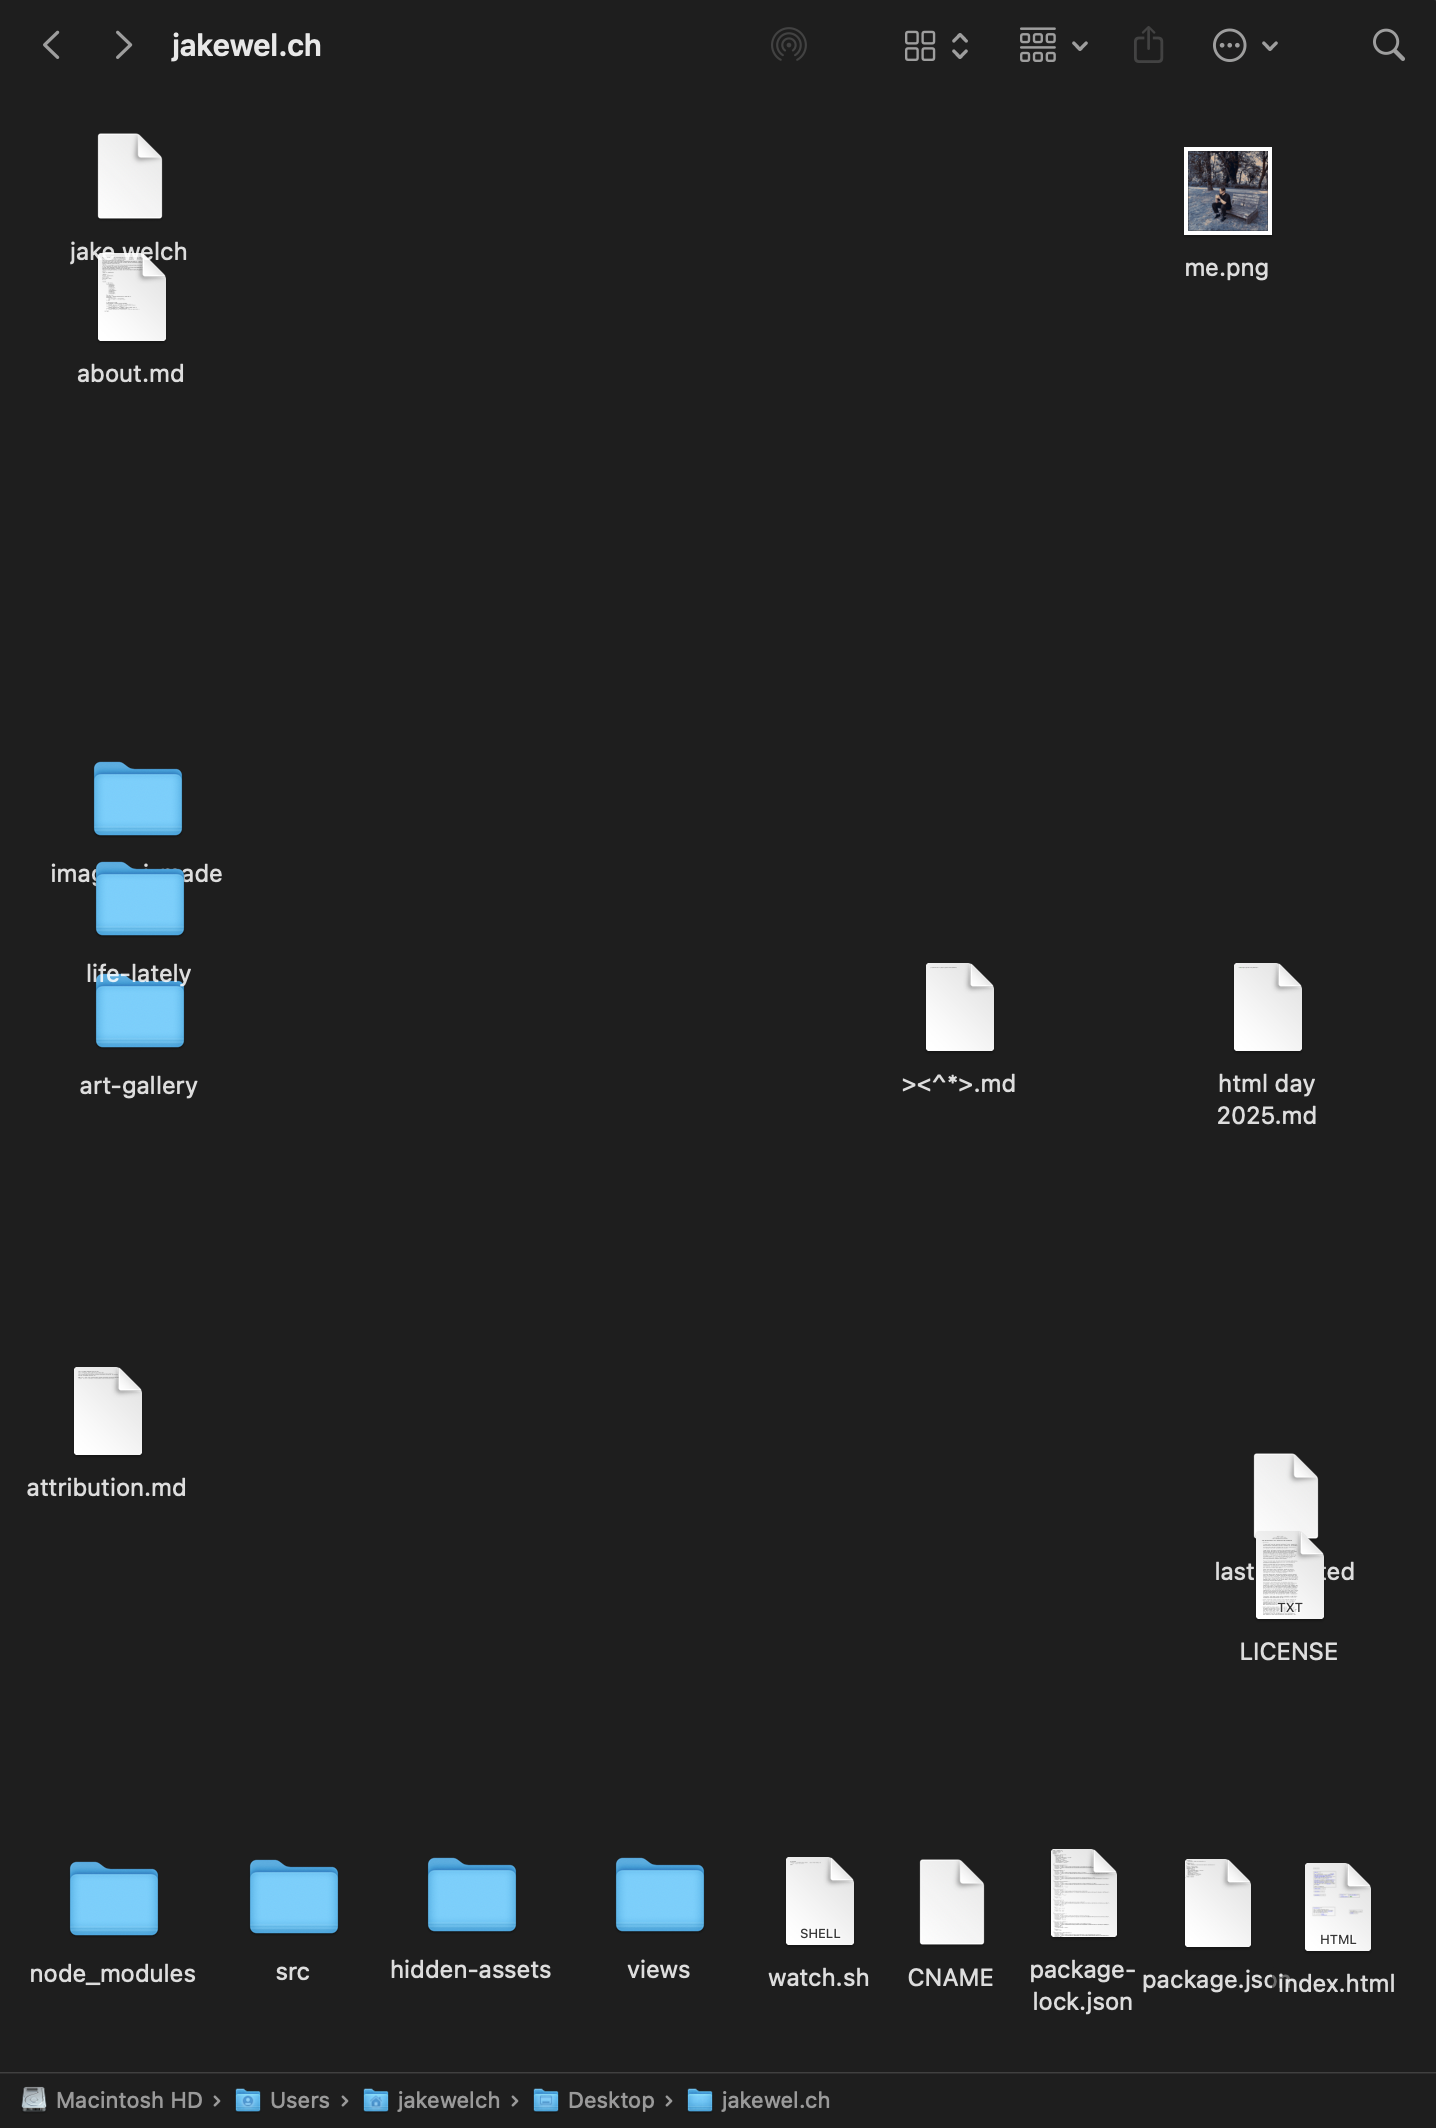
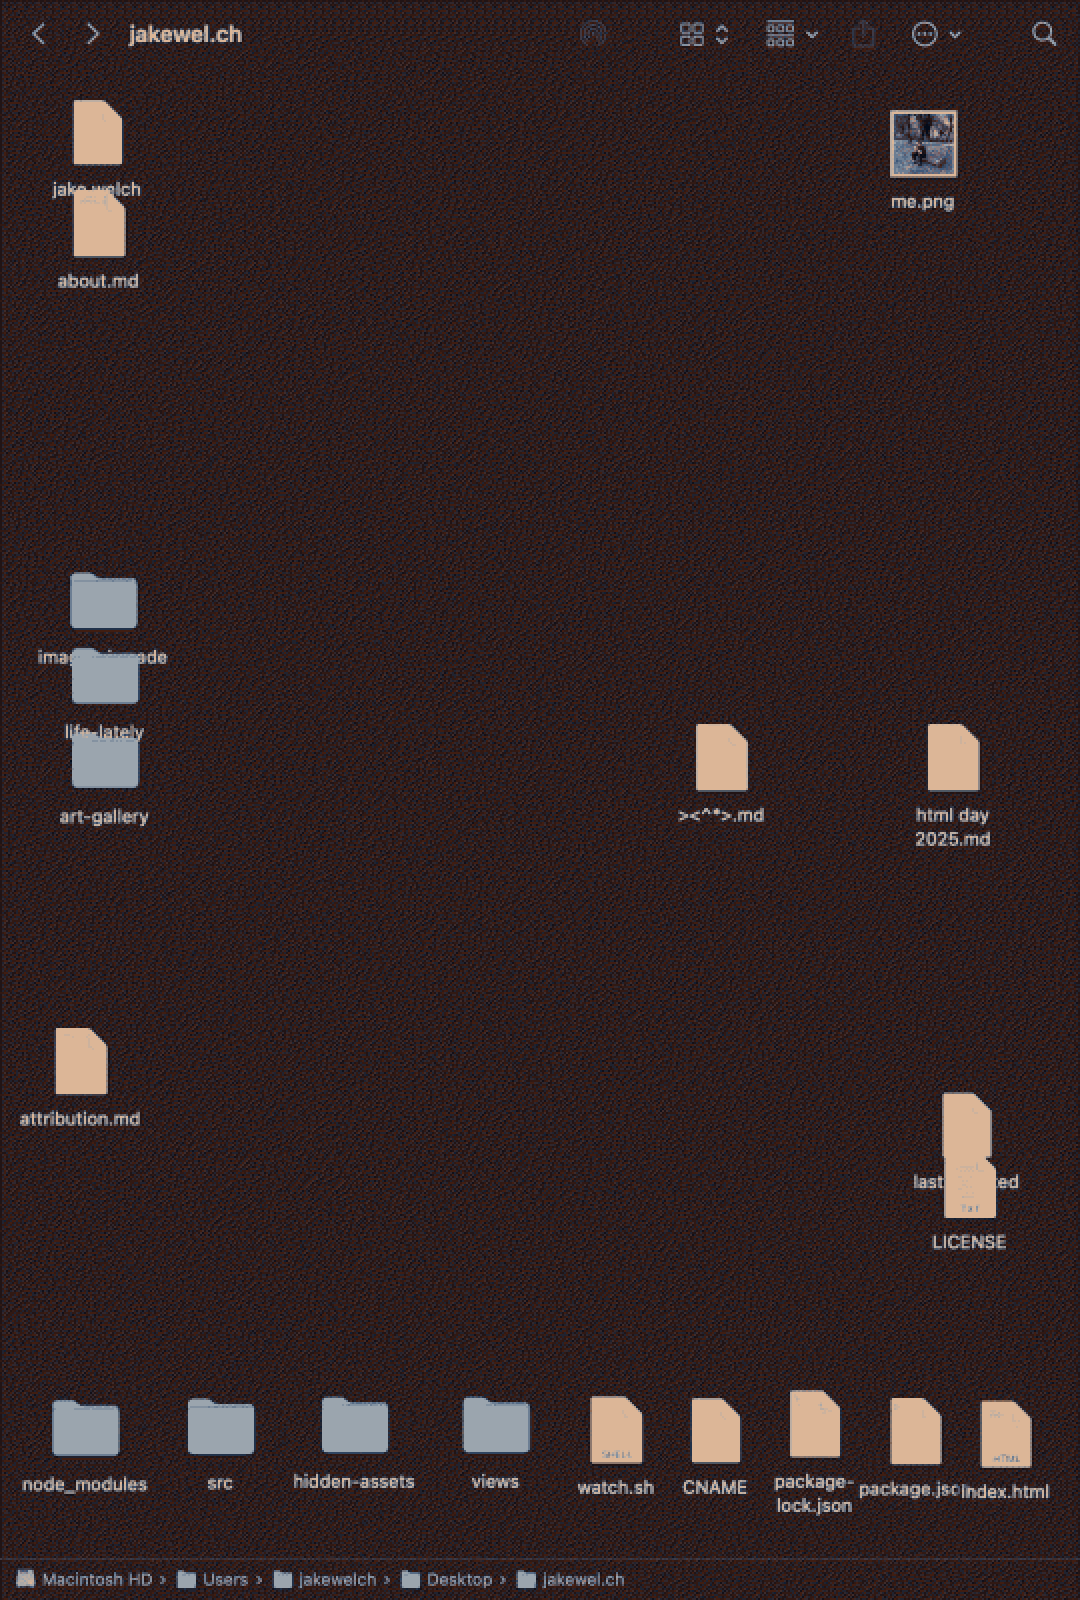
Updates

Changed region(s): [[0.0, 0.0, 1.0, 1.0]]

diff --git a/index.html b/index.html
@@ -14,8 +14,10 @@
 
   <style>
     html {
-      background-image: url("./hidden-assets/bg.jpg");
+      /* background-image: url("./hidden-assets/bg.jpg"); */
+      background-image: url("./hidden-assets/bg-dithered.png");
       background-size: cover;
+      image-rendering: pixelated;
       height: 100%;
     }
 
@@ -65,6 +67,10 @@ overflow-x: scroll;
     .item audio {
       max-width: 18em;
       height: auto;
+    }
+
+    .item img {
+      image-rendering: pixelated;
     }
 
     .item audio {
@@ -125,11 +131,16 @@ overflow-x: scroll;
 <body>
   <main>
 
-        <div class="plantbed" style="left: max(0px, calc(50% - 294.5px - 9em))">
+        <div class="plantbed" style="left: max(0px, calc(50% - 297px - 9em))">
+            <div class="item" style="top: 595px; left: 15px">
+                                <h3>
+                                  [{&#34;hex&#34;:&#34;#020b1a&#34;},{&#34;hex&#34;:&#34;#401d11&#34;},{&#34;hex&#34;:&#34;#b45d40&#34;},{&#34;hex&#34;:&#34;#dd723c&#34;},{&#34;hex&#34;:&#34;#ff9641&#34;},{&#34;hex&#34;:&#34;#dcb697&#34;},{&#34;hex&#34;:&#34;#9ba5ae&#34;},{&#34;hex&#34;:&#34;#3e5879&#34;}]
+                                </h3>
+            </div>
             <div class="item" style="top: 111px; left: 5px">
                               <h3><a href="about.md">
                                   about.md
-                                </a> (2.38kB)</h3>
+                                </a> (2.6kB)</h3>
                               <div class="md">
                                 <p>Hi, I&#39;m Jake and I&#39;m <span class="what-am-i"></span> from <a href="https://maps.app.goo.gl/znExp4xj4njYNqs5A">Salt Lake City UT</a> currently living in <a href="https://maps.app.goo.gl/MMfmNDXtF19uJNqSA">Brooklyn NY</a>.
 I use code to <a href="https://jakewelch.design">design cool projects</a> and to <a href="https://instagram.com/jake___welch">experiment with new ideas</a>.
@@ -137,7 +148,8 @@ In my free time I love to <a href="https://www.goodreads.com/jakewelch" target="
 usually related to history and art.
 <br><br>
 This site is my attempt at <a href="https://www.are.na/jake-welch/web-revolution" target="_blank">reclaiming a corner of the internet</a> as a place to share and connect
-in a way that&#39;s meaningful and breaks free from <a href="https://www.humanetech.com/youth/the-attention-economy">the exploitative algorithms</a> subjected on us by Big Tech.
+in a way that&#39;s meaningful and breaks free from <a href="https://www.humanetech.com/youth/the-attention-economy">the exploitative algorithms</a> subjected on us by Big Tech. If you&#39;re at all
+interested in having your own personal site, I&#39;ve written a <a href="https://tutorials.jakewel.ch/build-a-website.html">beginner friendly guide</a> to help others achieve that goal, and for free! 
 Feel free to surf around and if you feel so inclined, leave a note in my <a href="https://ourworldoftext.com/jakewelch" target="_blank">guest book</a>, or shoot me an <a href="mailto:jaketwelch@gmail.com">email</a>.
 <br><br>
 Thanks for stopping by!</p>
@@ -182,7 +194,7 @@ text-align: center;
     </script>
                               </div>
             </div>
-            <div class="item" style="top: 447px; left: 8px">
+            <div class="item" style="top: 477px; left: 9px">
                 <h3><a href="art-gallery/">
                     art-gallery/
                   </a> (114 items)</h3>
@@ -197,7 +209,12 @@ the files, directories, and .DS_Store in a folder on my laptop&#39;s desktop.<br
 This is is made possible thanks to the <a href="https://github.com/inchkev/file-gallery">file-gallery</a> project by <a href="https://kevin.garden/">kevin.garden</a>. Thanks Kevin!</p>
                               </div>
             </div>
-            <div class="item" style="top: 552px; left: 503px">
+            <div class="item" style="top: 565px; left: 14px">
+                                      <h3><a href="ditherit.com pallette">
+                                          ditherit.com pallette
+                                        </a> (0B)</h3>
+            </div>
+            <div class="item" style="top: 464px; left: 594px">
                               <h3><a href="enter-the-portal.md">
                                   enter-the-portal.md
                                 </a> (274B)</h3>
@@ -207,7 +224,7 @@ This is is made possible thanks to the <a href="https://github.com/inchkev/file-
 🌫🌫🌫🌫🌫🌀🌫🌫🌫🌫🌫</p>
                               </div>
             </div>
-            <div class="item" style="top: 467px; left: 589px">
+            <div class="item" style="top: 552px; left: 501px">
                               <h3><a href="html day 2025.md">
                                   html day 2025.md
                                 </a> (56B)</h3>
@@ -215,7 +232,7 @@ This is is made possible thanks to the <a href="https://github.com/inchkev/file-
                                 <p>–&gt;<a href="https://jakewel.ch/html-day-2025.html">❇</a>&lt;–</p>
                               </div>
             </div>
-            <div class="item" style="top: 389px; left: 8px">
+            <div class="item" style="top: 419px; left: 9px">
                 <h3><a href="images-i-made/">
                     images-i-made/
                   </a> (26 items)</h3>
@@ -236,26 +253,26 @@ This is is made possible thanks to the <a href="https://github.com/inchkev/file-
                                           LICENSE
                                         </a> (11.4kB)</h3>
             </div>
-            <div class="item" style="top: 418px; left: 8px">
+            <div class="item" style="top: 448px; left: 9px">
                 <h3><a href="life-lately/">
                     life-lately/
                   </a> (3 items)</h3>
             </div>
-            <div class="item" style="top: 58px; left: 553px">
+            <div class="item" style="top: 57px; left: 555px">
                   <h3><a href="me.png">
                       me.png
-                    </a> (923kB)</h3>
+                    </a> (250kB)</h3>
                   <a href="me.png">
-                    <img src="me.png" alt="me.png" width="1080"
-                      height="1080">
+                    <img src="me.png" alt="me.png" width="600"
+                      height="905">
                   </a>
             </div>
-            <div class="item" style="top: 349px; left: 497px">
+            <div class="item" style="top: 366px; left: 452px">
                                 <h3>
                                   misc links
                                 </h3>
             </div>
-            <div class="item" style="top: 395px; left: 499px">
+            <div class="item" style="top: 402px; left: 500px">
                               <h3><a href="RestroomArchive.md">
                                   RestroomArchive.md
                                 </a> (43B)</h3>

diff --git a/life-lately/index.html b/life-lately/index.html
@@ -15,8 +15,10 @@
 
   <style>
     html {
-      background-image: url("../hidden-assets/bg.jpg");
+      /* background-image: url("../hidden-assets/bg.jpg"); */
+      background-image: url("../hidden-assets/bg-dithered.png");
       background-size: cover;
+      image-rendering: pixelated;
       height: 100%;
     }
 
@@ -131,21 +133,21 @@ overflow-x: scroll;
                               </div>
             </div>
             <div class="item">
-                  <h3><a href="10-Nov-2025_01.jpeg">
-                      10-Nov-2025_01.jpeg
-                    </a> (3.07MB)</h3>
-                  <a href="10-Nov-2025_01.jpeg">
-                    <img src="10-Nov-2025_01.jpeg" alt="10-Nov-2025_01.jpeg" width="2268"
-                      height="4032">
+                  <h3><a href="10-Nov-2025_01.png">
+                      10-Nov-2025_01.png
+                    </a> (879kB)</h3>
+                  <a href="10-Nov-2025_01.png">
+                    <img src="10-Nov-2025_01.png" alt="10-Nov-2025_01.png" width="1080"
+                      height="1920">
                   </a>
             </div>
             <div class="item">
                   <h3><a href="10-Nov-2025_02.png">
                       10-Nov-2025_02.png
-                    </a> (331kB)</h3>
+                    </a> (629kB)</h3>
                   <a href="10-Nov-2025_02.png">
-                    <img src="10-Nov-2025_02.png" alt="10-Nov-2025_02.png" width="1436"
-                      height="2128">
+                    <img src="10-Nov-2025_02.png" alt="10-Nov-2025_02.png" width="1080"
+                      height="1600">
                   </a>
             </div>
         </div>

diff --git a/art-gallery/index.html b/art-gallery/index.html
@@ -15,8 +15,10 @@
 
   <style>
     html {
-      background-image: url("../hidden-assets/bg.jpg");
+      /* background-image: url("../hidden-assets/bg.jpg"); */
+      background-image: url("../hidden-assets/bg-dithered.png");
       background-size: cover;
+      image-rendering: pixelated;
       height: 100%;
     }
 

diff --git a/images-i-made/index.html b/images-i-made/index.html
@@ -15,8 +15,10 @@
 
   <style>
     html {
-      background-image: url("../hidden-assets/bg.jpg");
+      /* background-image: url("../hidden-assets/bg.jpg"); */
+      background-image: url("../hidden-assets/bg-dithered.png");
       background-size: cover;
+      image-rendering: pixelated;
       height: 100%;
     }
 

diff --git a/time-machine/index.html b/time-machine/index.html
@@ -15,8 +15,10 @@
 
   <style>
     html {
-      background-image: url("../hidden-assets/bg.jpg");
+      /* background-image: url("../hidden-assets/bg.jpg"); */
+      background-image: url("../hidden-assets/bg-dithered.png");
       background-size: cover;
+      image-rendering: pixelated;
       height: 100%;
     }
 

diff --git a/about.md b/about.md
@@ -4,7 +4,8 @@ In my free time I love to <a href="https://www.goodreads.com/jakewelch" target="
 usually related to history and art.
 <br><br>
 This site is my attempt at <a href="https://www.are.na/jake-welch/web-revolution" target="_blank">reclaiming a corner of the internet</a> as a place to share and connect
-in a way that's meaningful and breaks free from <a href="https://www.humanetech.com/youth/the-attention-economy">the exploitative algorithms</a> subjected on us by Big Tech.
+in a way that's meaningful and breaks free from <a href="https://www.humanetech.com/youth/the-attention-economy">the exploitative algorithms</a> subjected on us by Big Tech. If you're at all
+interested in having your own personal site, I've written a <a href="https://tutorials.jakewel.ch/build-a-website.html">beginner friendly guide</a> to help others achieve that goal, and for free! 
 Feel free to surf around and if you feel so inclined, leave a note in my <a href="https://ourworldoftext.com/jakewelch" target="_blank">guest book</a>, or shoot me an <a href="mailto:jaketwelch@gmail.com">email</a>.
 <br><br>
 Thanks for stopping by!
